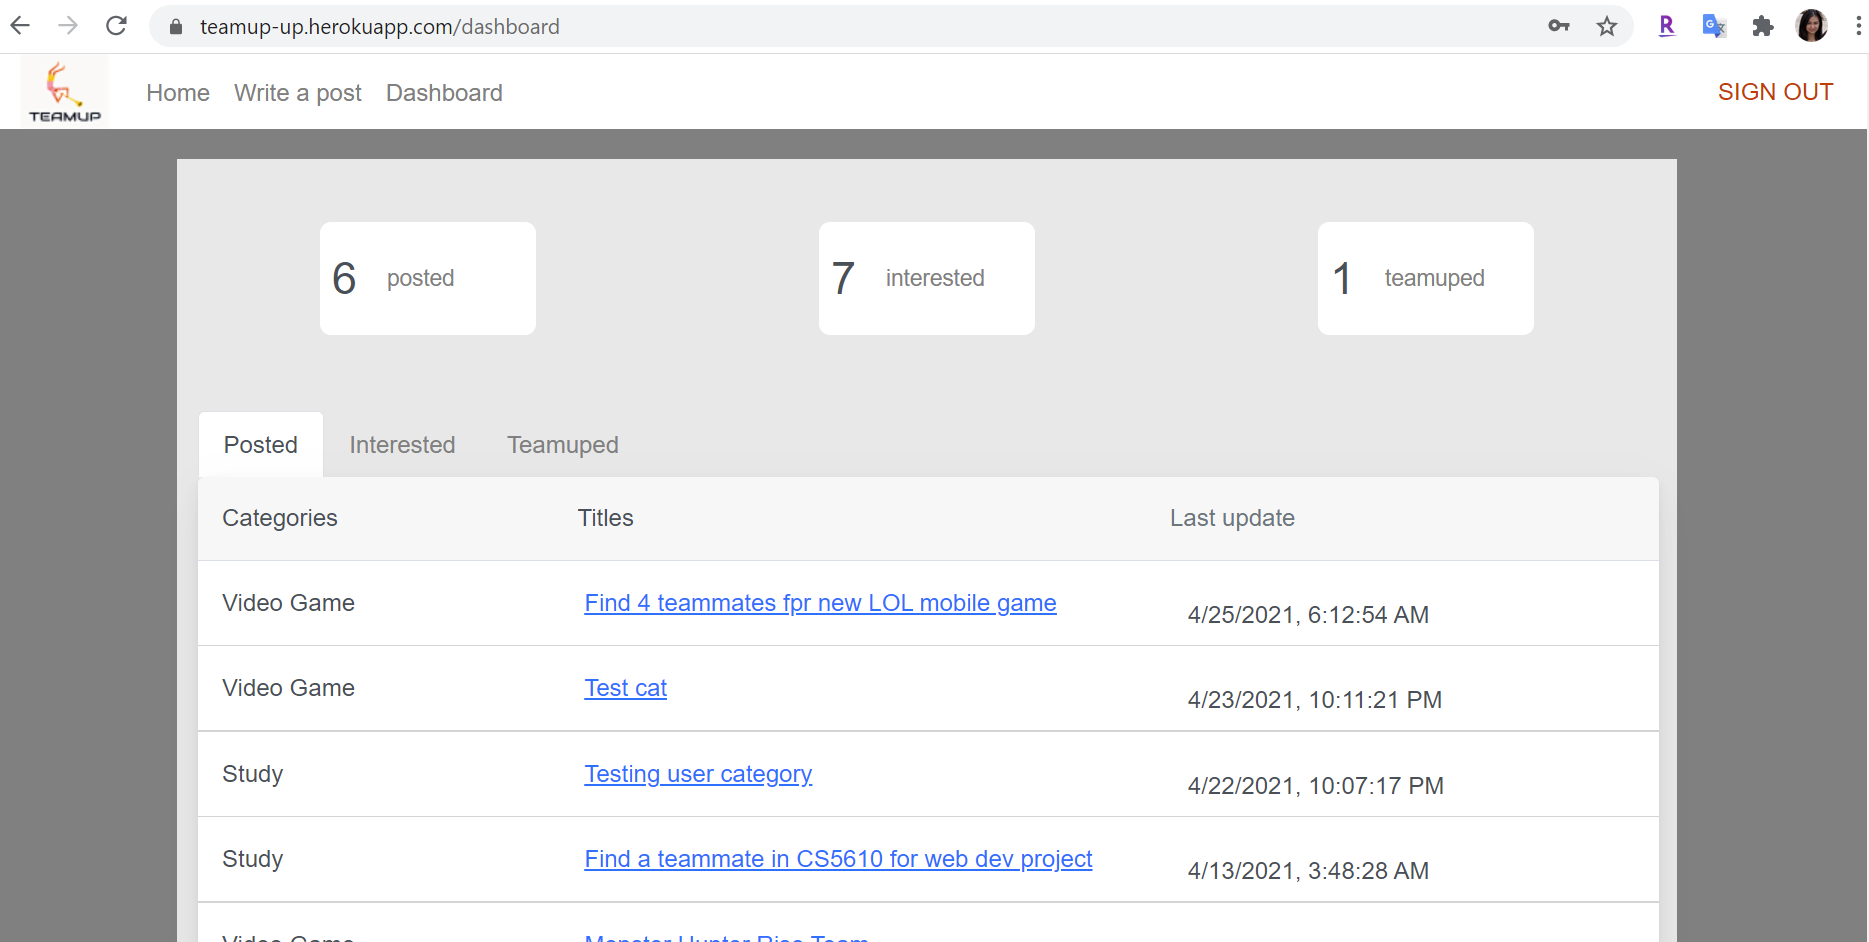
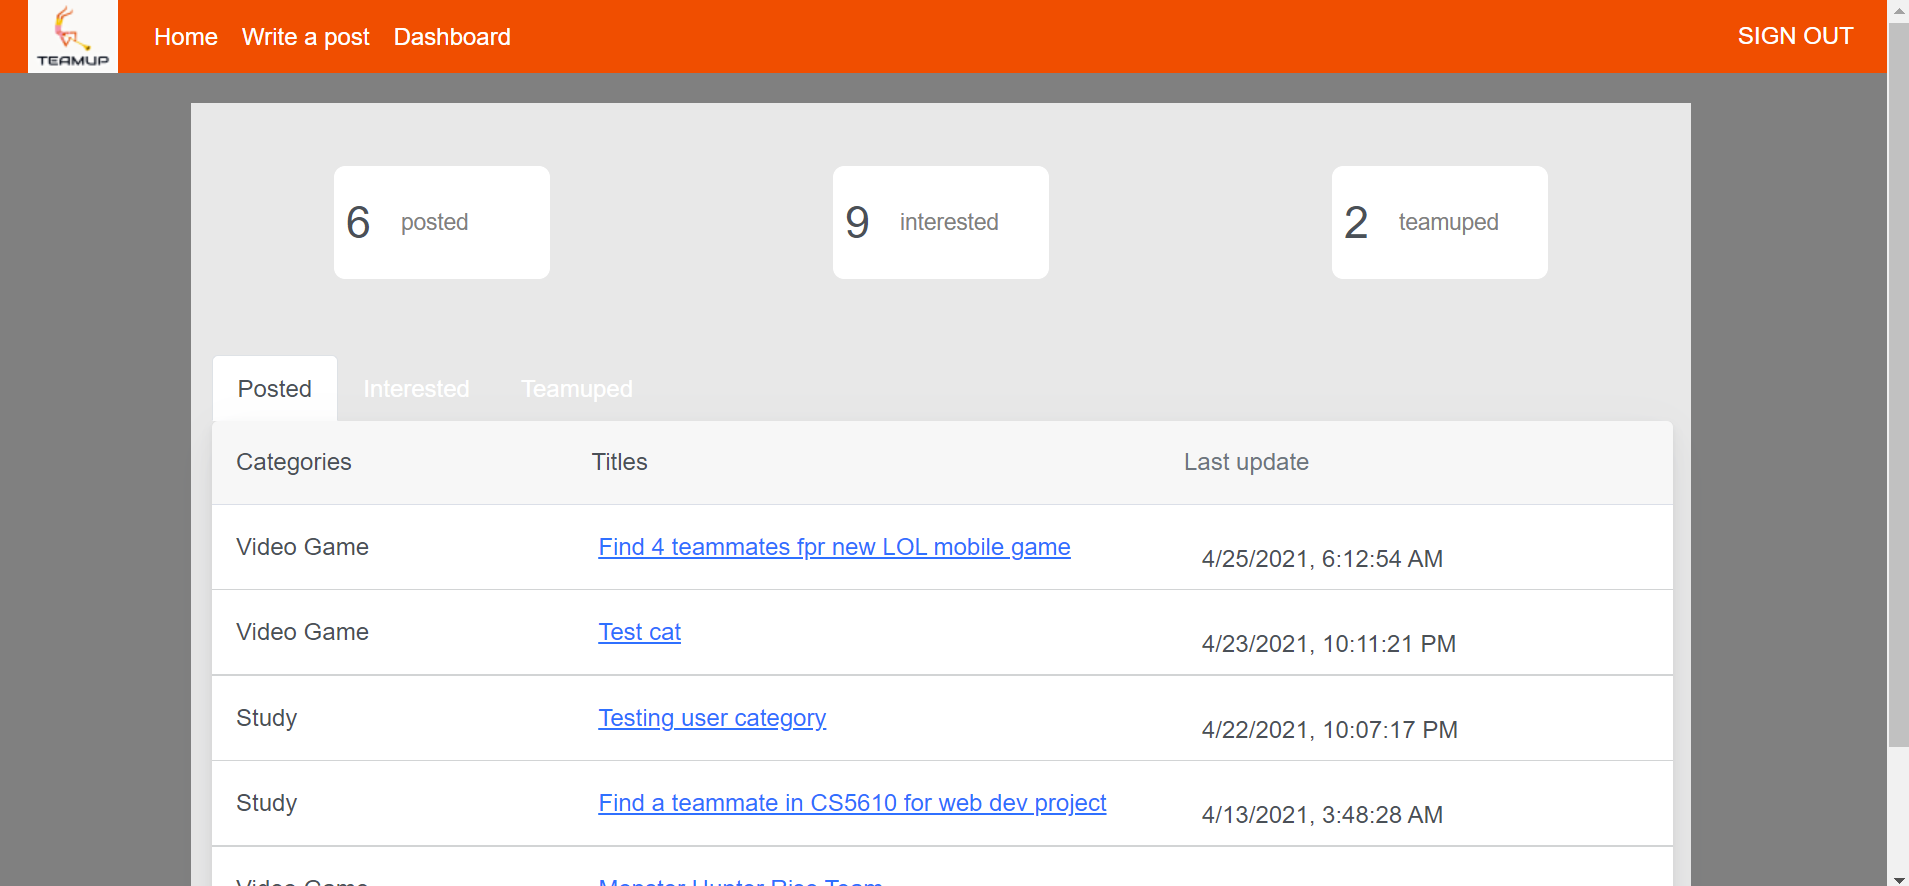
style

diff --git a/front/src/styles/navigationbar.css b/front/src/styles/navigationbar.css
@@ -1,9 +1,18 @@
 .nav-link {
+  color: #808080;
+}
+
+a.nav-link:hover {
+  /*color: #808080;*/
+  color: #fa500c;
+}
+
+#navbarHome, #navbarPost, #navbarDashboard {
   color: #ffffff;
   padding-top: 10px;
 }
 
-a.nav-link:hover {
+#navbarHome:hover, #navbarPost:hover, #navbarDashboard:hover {
   color: #808080;
 }
 
@@ -16,5 +25,6 @@ a.nav-link:hover {
   border-color: #fa500c;
   background-color: #fa500c;
 }
+
 
 

diff --git a/front/src/Pages/RegisterPage.js b/front/src/Pages/RegisterPage.js
@@ -80,7 +80,7 @@ const RegisterPage = () => {
             onChange={(e) => setUserName(e.target.value)}
           />
           <label id="userlabel" htmlFor={username}>
-            Username
+            Email address
           </label>
         </div>
 

diff --git a/front/src/Pages/LoginPage.js b/front/src/Pages/LoginPage.js
@@ -48,7 +48,7 @@ const LoginPage = () => {
             onChange={(e) => setUserName(e.target.value)}
           />
           <label id="userlabel" htmlFor={username}>
-            Username
+            Email address
           </label>
         </div>
 
